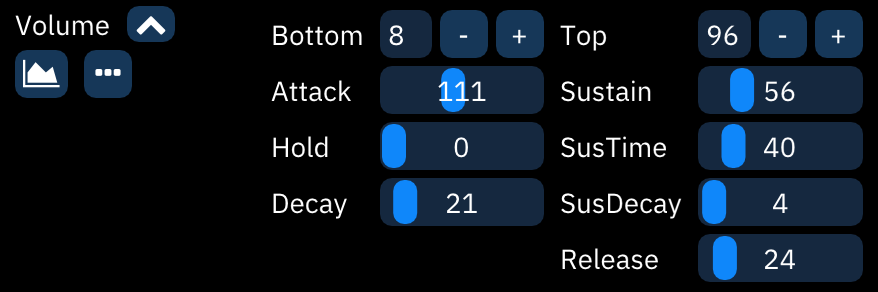
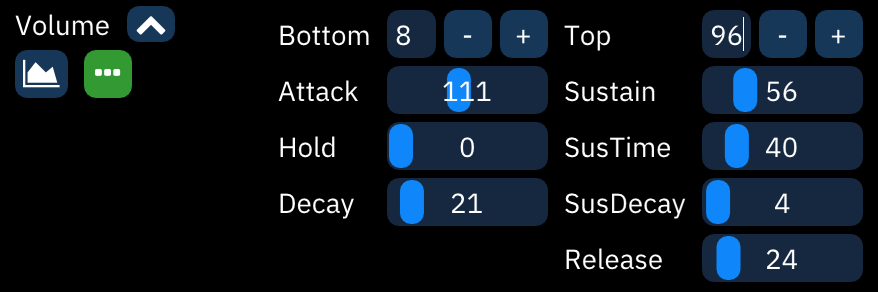
A couple more slight edits.
Typo fix and update for new macro props indicator, just to show what that looks like.

diff --git a/doc/4-instrument/README.md b/doc/4-instrument/README.md
@@ -50,8 +50,9 @@ The very first numeric entry sets the visible width of the bars in sequence-type
 Each macro has two buttons on the left.
 - Macro type (explained below).
 - Timing editor, which pops up a small dialog:
-  - Step Length (ticks): Determines how many ticks pass before each change of value.
-  - Delay: Delays the start of the macro until this many ticks have passed.
+  - Step Length (ticks): Determines how many ticks pass before each change of value. Default is 1.
+  - Delay: Delays the start of the macro until this many ticks have passed. Default is 0.
+  - The button is highlighted if either of these is set differently from default.
 
 ## macro types
 

diff --git a/doc/7-systems/tia.md b/doc/7-systems/tia.md
@@ -184,7 +184,7 @@ this chip uses the [TIA](../4-instrument/tia.md) instrument editor.
 |    30 |    32.7 |  C-1 |  0.0 |    32.5 |  C-1 |  -11
 |    31 |    31.7 |  B-0 |  +44 |    31.5 |  B-0 |  +33
 
-## shapes 8
+## shape 8
 
 | pitch |    NTSC | note | cent |    PAL  | note | cent
 |------:|--------:|:----:|-----:|--------:|:----:|-----:
